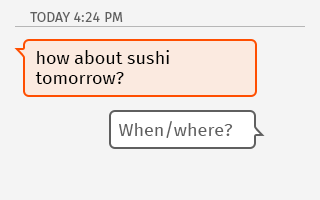
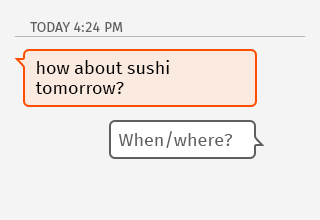
Implement tear-off sheet style for in-place apps

Changed region(s): [[0.0312, 0.06, 0.9375, 0.51], [0.3438, 0.6, 0.8438, 0.75], [0.3438, 0.54, 0.8125, 0.57]]

diff --git a/index.css b/index.css
@@ -277,29 +277,27 @@ of an .action-match. */
 
 /* Action insert for in-place app rendering. */
 .action-insert {
-  border: 1px solid #000;
-  border-width: 1px 0;
   overflow: hidden;
   position: relative;
 }
 .action-insert:before {
-  box-shadow: 0 0 5px 1px rgba(0, 0, 0, .8);
+  background: url(assets/tear-off-top.png) repeat-x;
   content: '';
-  height: 1px;
+  height: 10px;
   left: 0;
   position: absolute;
   right: 0;
-  top: -1px;
+  top: 0;
   z-index: 2;
 }
 .action-insert:after {
-  box-shadow: 0 0 5px 1px rgba(0, 0, 0, .8);
+  background: url(assets/tear-off-bottom.png) repeat-x;
   content: '';
-  height: 1px;
+  height: 10px;
   left: 0;
   position: absolute;
   right: 0;
-  bottom: -1px;
+  bottom: 0;
   z-index: 2;
 }
 .action-insert > img {
